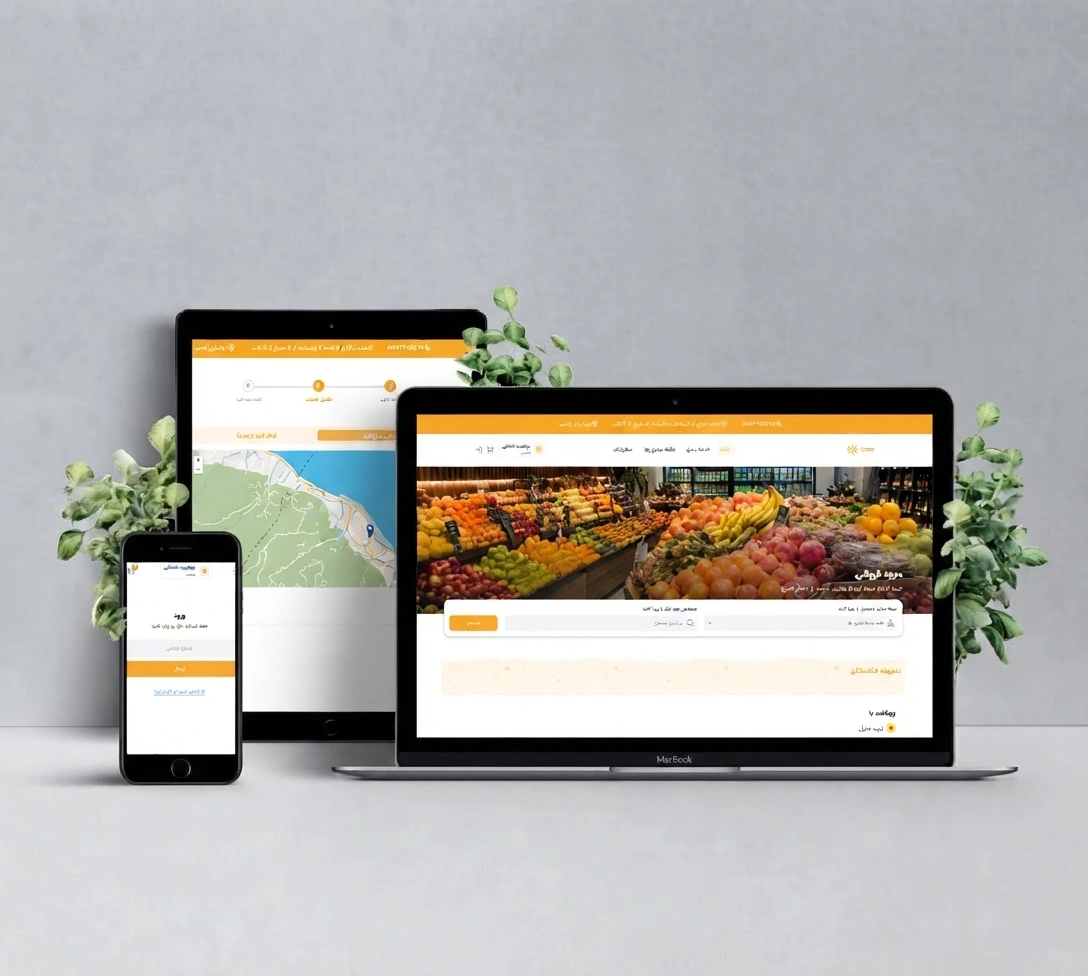
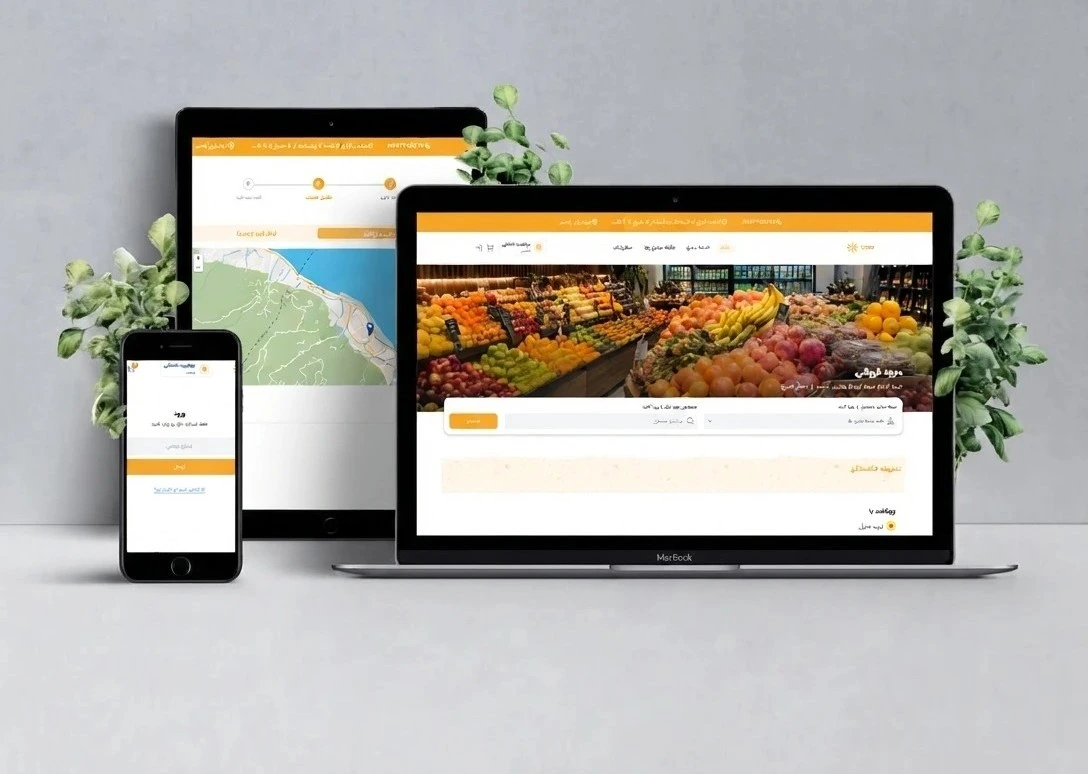
refactor

diff --git a/src/app/_components/sections/techStack.tsx b/src/app/_components/sections/techStack.tsx
@@ -165,7 +165,7 @@ const TechStack = () => {
                                     >
                                         <Image src={technology.icon} alt="" width={500} height={500}
                                                className="absolute top-1 right-2 z-0 h-20 w-20 object-contain opacity-[0.08]
-                                    grayscale transition-all duration-500 ease-out group-hover:h-30 group-hover:w-30
+                                     transition-all duration-500 ease-out group-hover:h-30 group-hover:w-30
                                     group-hover:-right-4 group-hover:-bottom-4 group-hover:opacity-[0.2] group-hover:grayscale-0
                                     group-hover:rotate-6"
                                         />

diff --git a/src/app/_components/sections/projectCard.tsx b/src/app/_components/sections/projectCard.tsx
@@ -24,10 +24,9 @@ const ProjectCard = ({ data }: { data: Project }) => {
         transition animated-border
     "
         >
-            <div className="relative w-full h-[200px] overflow-hidden">
+            <div className="relative w-full h-[220px] overflow-hidden">
                 <Image
-                    className="
-                object-cover
+                    className="object-cover object-top
                 transition-transform duration-500 ease-out
                 group-hover:scale-110
             "
